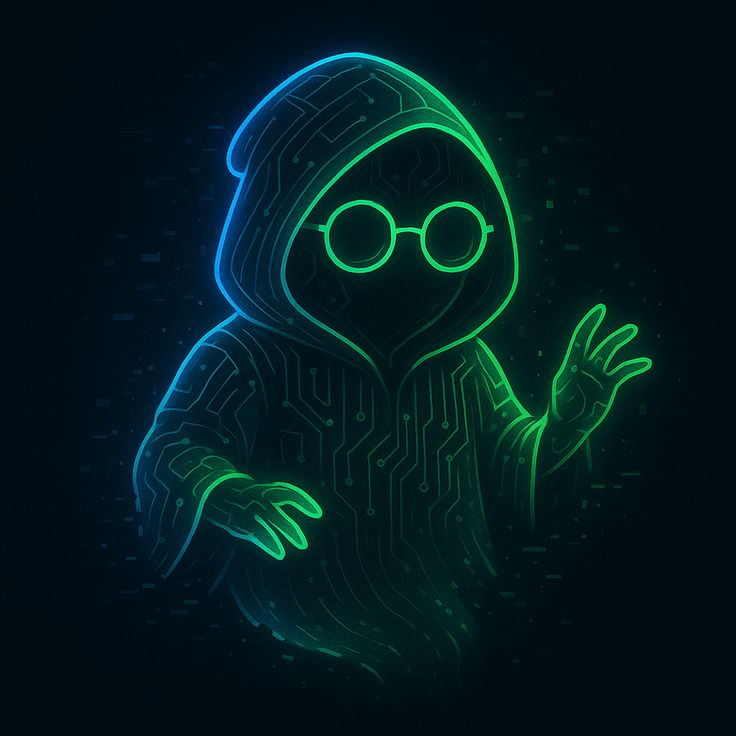
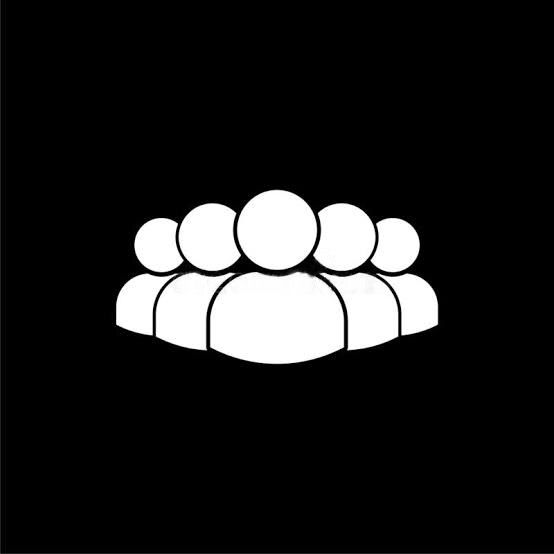
fix: meta tags Ableton UI, alt texts descriptivos, nuevas imágenes y contenido alineado con Ableton

diff --git a/index.html b/index.html
@@ -10,22 +10,25 @@
     <!-- SEO -->
     <meta
       name="description"
-      content="Frontend practice project showcasing modern HTML, CSS, and responsive design skills."
+      content="HTML and CSS practice project inspired by the Ableton challenge of the Frontend Practice page."
     />
     <meta
       name="keywords"
-      content="Frontend, HTML Practice, CSS Practice, Responsive Design"
+      content="Ableton, HTML Practice, CSS Practice, Frontend-Practice"
     />
     <meta name="author" content="Bryan Espinoza" />
     <meta name="robots" content="index, follow" />
 
     <!-- Open Graph -->
-    <meta property="og:title" content="Frontend Practice - UI Clone" />
+    <meta property="og:title" content="Ableton UI - Frontend Practice" />
     <meta
       property="og:description"
-      content="Frontend practice project showcasing modern HTML, CSS, and responsive design skills."
+      content="HTML and CSS practice project inspired by the Ableton challenge of the Frontend Practice page."
     />
-    <meta property="og:image" content="https://github.com/14BryanEspinoza/ableton/blob/main/img/reset.png" />
+    <meta
+      property="og:image"
+      content="https://github.com/14BryanEspinoza/ableton/blob/main/img/reset.png"
+    />
     <meta
       property="og:url"
       content="https://14bryanespinoza.github.io/ableton/"
@@ -35,12 +38,15 @@
 
     <!-- Twitter Card  -->
     <meta name="twitter:card" content="summary_large_image" />
-    <meta name="twitter:title" content="Frontend Practice - UI Clone" />
+    <meta name="twitter:title" content="Ableton UI - Frontend Practice" />
     <meta
       name="twitter:description"
-      content="Frontend practice project showcasing modern HTML, CSS, and responsive design skills."
+      content="HTML and CSS practice project inspired by the Ableton challenge of the Frontend Practice page."
     />
-    <meta name="twitter:image" content="https://github.com/14BryanEspinoza/ableton/blob/main/img/reset.png" />
+    <meta
+      name="twitter:image"
+      content="https://github.com/14BryanEspinoza/ableton/blob/main/img/reset.png"
+    />
 
     <!-- Typography -->
     <link rel="preconnect" href="https://fonts.googleapis.com" />
@@ -56,8 +62,11 @@
     <!-- Favicon -->
     <link rel="icon" href="img/favicon.png" type="image/png" />
 
+    <!-- Canonical -->
+    <link rel="canonical" href="https://14bryanespinoza.github.io/ableton/" />
+
     <!-- Page Title -->
-    <title>Frontend Practice - UI Clone</title>
+    <title>Ableton UI - Frontend Practice</title>
   </head>
 
   <!-- Body -->
@@ -136,16 +145,17 @@
         <div class="container-text">
           <!-- Title -->
           <h2 id="create-title">
-            We build modern, responsive, and accessible web experiences using
-            the latest frontend technologies. Every line of code is crafted with
-            purpose and attention to detail.
+            We build with HTML5, CSS3, and JavaScript — the core technologies of
+            the modern web. From semantic structure to fluid layouts and
+            interactive experiences, every line of code is crafted with purpose.
           </h2>
 
           <!-- Text -->
           <p>
-            Frontend development is the art of bringing designs to life. From
-            semantic HTML and CSS animations to interactive JavaScript, we
-            transform ideas into digital experiences that users love.
+            Frontend development has come a long way since the early days of
+            static pages. Today, it's the art of bringing designs to life — used
+            by a global community of developers, designers, and creators who
+            push the boundaries of what the web can do.
           </p>
         </div>
 
@@ -154,8 +164,8 @@
           <!-- Img -->
           <figure class="container-image">
             <img
-              src="img/developer.png"
-              alt="Developer working at a desk with multiple monitors displaying code"
+              src="img/web-developer.png"
+              alt="Web developer working on a laptop with a code editor open, surrounded by design tools and documentation"
               loading="lazy"
               decoding="async"
               width="736"
@@ -166,8 +176,8 @@
           <!-- Img -->
           <figure class="container-image hide-mobile">
             <img
-              src="img/linux.png"
-              alt="Linux terminal with command-line tools and system information"
+              src="img/tech.png"
+              alt="Modern tech workspace with developer tools, code snippets on screen, and web development resources"
               loading="lazy"
               decoding="async"
               width="736"
@@ -183,16 +193,19 @@
         <div class="container-text">
           <!-- Title -->
           <h2 id="clean-code-title">
-            Writing clean code isn't easy. It takes time, effort, and constant
-            learning. But when everything clicks into place, it's incredibly
-            rewarding.
+            Writing clean, maintainable code isn't easy. It takes time, effort,
+            and constant practice. But when everything clicks into place — when
+            the layout snaps, the animation flows, and the Lighthouse score hits
+            green — it's incredibly rewarding.
           </h2>
 
           <!-- Text -->
           <p>
-            That same drive pushes us to keep improving. Whether it's mastering
-            a new framework, optimizing performance, or perfecting a layout,
-            we're committed to growth.
+            We feel the same way about building for the web. Our drive comes
+            from a passion for the craft and for the people who use what we
+            build. Whether mastering a new framework, optimizing Core Web
+            Vitals, or perfecting a responsive layout, we're committed to
+            growth.
           </p>
         </div>
 
@@ -200,8 +213,8 @@
         <figure class="container-image one-image">
           <!-- Img -->
           <img
-            src="img/reset.png"
-            alt="Mobile phone displaying a blog post about CSS reset techniques"
+            src="img/developer.png"
+            alt="Frontend developer coding responsive layouts with mobile and desktop previews on screen"
             loading="lazy"
             decoding="async"
             width="360"
@@ -219,17 +232,19 @@
         <div class="container-text">
           <!-- Title -->
           <h2 id="team-title">
-            We're a diverse group of developers, designers, and creatives united
-            by our passion for building great web experiences.
+            We're a global community of developers, designers, and creatives
+            from diverse backgrounds, united by our passion for building great
+            web experiences.
           </h2>
 
           <!-- Text -->
           <p>
-            Most of us started as self-taught learners, building small projects
-            and gradually taking on bigger challenges. Some have computer
-            science degrees, others come from completely different fields. What
-            brings us together is the shared belief that every developer has
-            something unique to contribute to the future of the web.
+            Most of us started as self-taught learners — building small
+            projects, breaking things, and gradually taking on bigger
+            challenges. Some have computer science degrees, others come from
+            design, music, or completely different fields. What unites us is the
+            shared belief that every developer has something unique to
+            contribute to the future of the web.
           </p>
         </div>
 
@@ -238,8 +253,8 @@
           <!-- Img -->
           <figure class="container-image">
             <img
-              src="img/person.png"
-              alt="Two creative professionals collaborating at a modern workspace"
+              src="img/red.png"
+              alt="Modern development workspace with red accent lighting and a minimalist desk setup"
               loading="lazy"
               decoding="async"
               width="736"
@@ -251,8 +266,8 @@
           <div class="container-image">
             <figure class="hide-mobile">
               <img
-                src="img/packman.png"
-                alt="Retro Pac-Man arcade game with colorful maze and ghost characters"
+                src="img/dev.png"
+                alt="Developer typing code on a laptop with multiple browser tabs and a terminal window open"
                 loading="lazy"
                 decoding="async"
                 width="736"
@@ -263,8 +278,8 @@
             <!-- Img -->
             <figure class="hide-mobile">
               <img
-                src="img/2027.png"
-                alt="Desk calendar open to the year 2027"
+                src="img/person.png"
+                alt="Software engineer focused on coding at a standing desk in a bright modern office"
                 loading="lazy"
                 decoding="async"
                 width="564"
@@ -281,17 +296,19 @@
         <div class="container-text">
           <!-- Title -->
           <h2 id="creativity-title">
-            We believe that creating exceptional web experiences requires
+            We believe that creating truly exceptional web experiences requires
             dedication. We focus on the fundamentals — performance,
-            accessibility, and usability — and strive for excellence.
+            accessibility, and usability — and strive for excellence in every
+            project.
           </h2>
 
           <!-- Text -->
           <p>
-            Instead of chasing every trend, we focus on what matters: writing
-            maintainable code, designing inclusive interfaces, and building
-            products that stand the test of time. We value diverse perspectives
-            and encourage open discussion to find the best solutions.
+            Instead of chasing every new framework or trend, we focus on what
+            truly matters: writing maintainable code, designing inclusive
+            interfaces, and building products that stand the test of time. We
+            value diverse perspectives and encourage open discussion to find the
+            best solutions.
           </p>
         </div>
 
@@ -299,8 +316,8 @@
         <figure class="container-image one-image">
           <!-- Img -->
           <img
-            src="img/code.png"
-            alt="Code editor with colorful syntax highlighting on a dark theme"
+            src="img/devs.png"
+            alt="Team of developers collaborating on a code review, discussing pull request changes on screen"
             loading="lazy"
             decoding="async"
             width="736"
@@ -336,8 +353,8 @@
           <!-- Img -->
           <figure class="container-image">
             <img
-              src="img/github.png"
-              alt="GitHub profile dashboard showing contribution graph and repository list"
+              src="img/cat.png"
+              alt="Cozy coding setup with a laptop and a cat sleeping on the desk next to the developer"
               loading="lazy"
               decoding="async"
               width="736"
@@ -348,8 +365,8 @@
           <!-- Img -->
           <figure class="container-image hide-mobile">
             <img
-              src="img/terminal.png"
-              alt="Terminal emulator with command-line output and system operation logs"
+              src="img/linux.png"
+              alt="Linux terminal window showing command-line operations, file navigation, and system administration tasks"
               loading="lazy"
               decoding="async"
               width="736"
@@ -366,16 +383,18 @@
           <!-- Title -->
           <h2 id="panels-title">
             We want our team to love working here. We're always looking for
-            talented developers who share our passion for frontend development.
+            talented developers who share our passion for the web and the craft
+            of frontend development.
           </h2>
 
           <!-- Text -->
           <p>
             If you join us, you'll work on real-world projects that challenge
             and inspire you. We offer flexible hours, remote-friendly policies,
-            and a collaborative environment where your ideas matter. We also
-            provide learning budgets, conference tickets, and mentorship
-            opportunities to help you grow in your career.
+            and a collaborative environment where your voice matters. We also
+            provide learning budgets, conference tickets, and mentorship to help
+            you grow — whether you're mastering a new framework, contributing to
+            open source, or diving into web accessibility.
           </p>
         </div>
 
@@ -383,8 +402,8 @@
         <div class="container-panel">
           <!-- Img -->
           <img
-            src="img/loading.png"
-            alt="Web application loading spinner animation on a dark background"
+            src="img/web.png"
+            alt="Web application interface showcasing modern UI design with responsive layout, navigation, and interactive elements"
             loading="lazy"
             decoding="async"
             width="564"

diff --git a/css/style.css b/css/style.css
@@ -346,8 +346,6 @@
   }
 
   .there-image {
-    display: flex;
-    align-items: center;
     background-color: var(--color-green);
   }
 
@@ -549,6 +547,7 @@
     .there-image {
       display: flex;
       justify-content: center;
+      align-items: center;
       gap: var(--space-lg);
     }
 

diff --git a/README.md b/README.md
@@ -28,21 +28,21 @@ Página informativa ficticia que reproduce un estilo minimalista inspirado en Ab
 .
 ├── index.html           # Página principal (519 líneas)
 ├── css/
-│   └── style.css        # Estilos (659 líneas)
+│   └── style.css        # Estilos (677 líneas)
 ├── img/
-│   ├── 2027.png         # Calendario de escritorio
-│   ├── code.png         # Editor de código
-│   ├── developer.png    # Desarrollador en escritorio
+│   ├── cat.png          # Gato junto al setup de desarrollo
+│   ├── dev.png          # Desarrollador programando en laptop
+│   ├── developer.png    # Desarrollador frontend con vistas mobile/desktop
+│   ├── devs.png         # Equipo colaborando en code review
 │   ├── favicon.png      # Logo del sitio
-│   ├── github.png       # Perfil de GitHub
-│   ├── linux.png        # Terminal Linux
-│   ├── loading.png      # Spinner de carga
-│   ├── packman.png      # Videojuego Pac-Man
-│   ├── person.png       # Colaboración en equipo
+│   ├── linux.png        # Terminal Linux con operaciones del sistema
+│   ├── person.png       # Ingeniero en escritorio de pie
 │   ├── preview.png      # Vista previa
-│   ├── reset.png        # Teléfono con artículo
-│   ├── terminal.png     # Emulador de terminal
-│   └── wallpaper.png    # Imagen hero de fondo
+│   ├── red.png          # Workspace con iluminación roja
+│   ├── tech.png         # Espacio tech con herramientas de desarrollo
+│   ├── wallpaper.png    # Imagen hero de fondo
+│   ├── web.png          # Interfaz de aplicación web moderna
+│   └── web-developer.png # Web developer con editor de código
 └── README.md
 ```
 
